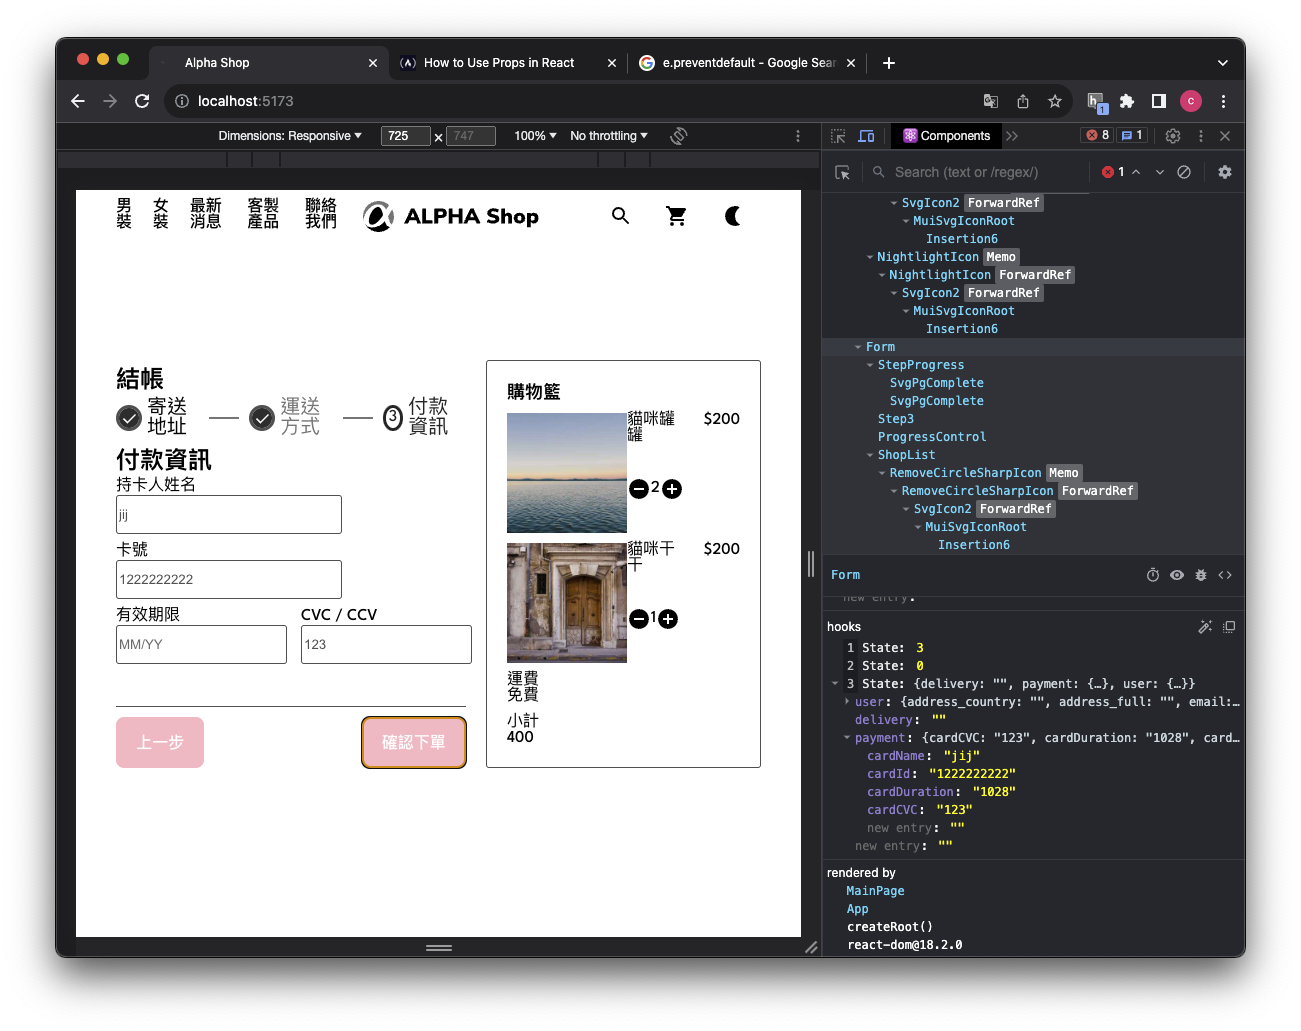
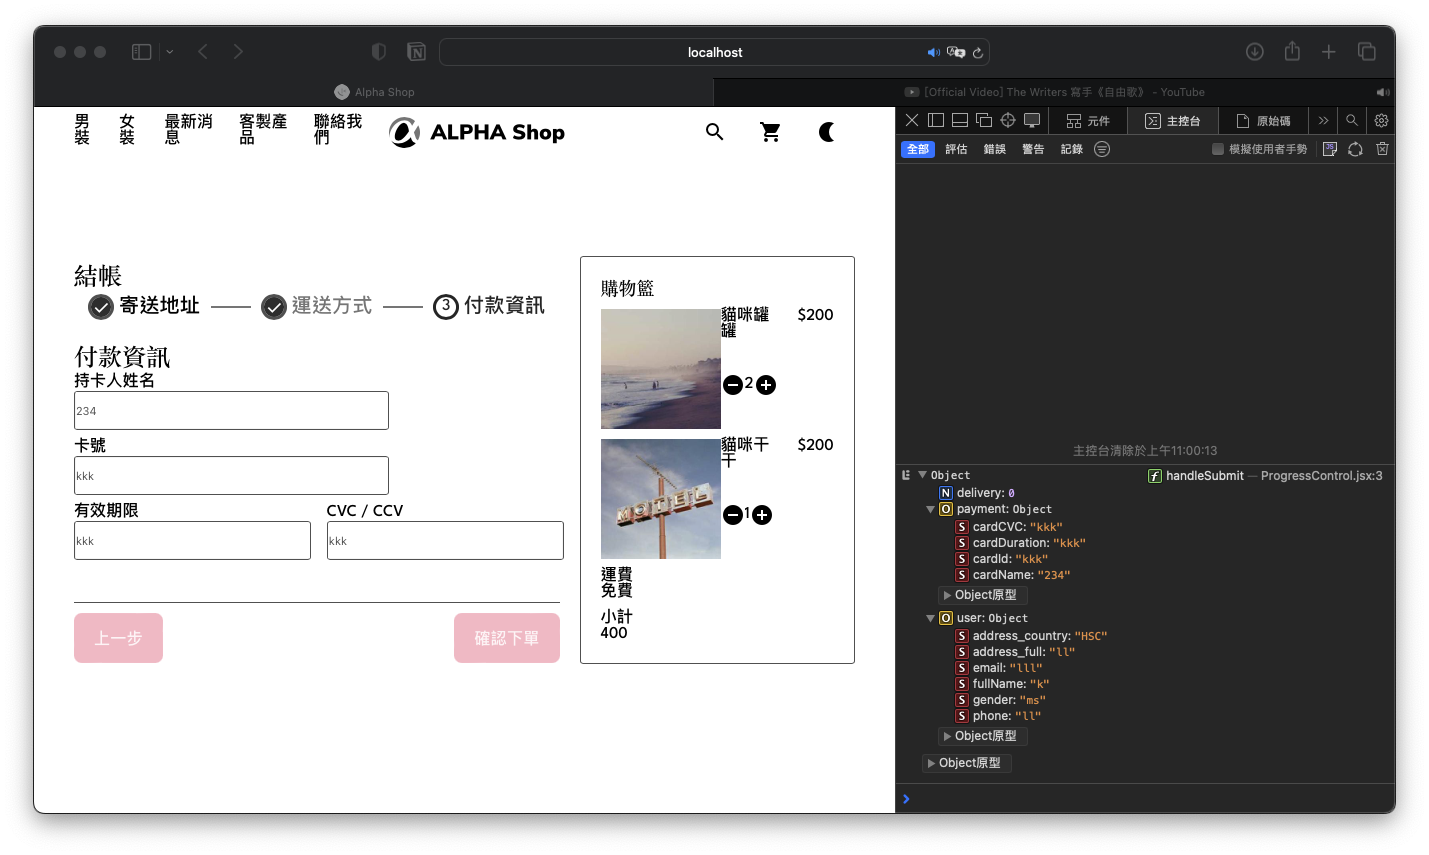
update

Changed region(s): [[0.0, 0.0304, 0.9839, 0.9731]]

diff --git a/src/component/Form/Form.jsx b/src/component/Form/Form.jsx
@@ -5,30 +5,13 @@ import ProgressControl from "./ProgressControl";
 import ShopList from "./ShopList";
 import StepProgress from "./StepProgress";
 
-import { useState } from "react";
+import { useStateContext } from "../Context/StateProvider";
+
 import "../../style/Form.scss";
 
 export default function Form() {
-  const [shopStage, setShopStage] = useState(1);
-
-  const [shipFee, setShipFee] = useState(0);
-  const [userInfo, setUserInfo] = useState({
-    user: {
-      gender: "mr",
-      fullName: "",
-      phone: "",
-      email: "",
-      address_country: "",
-      address_full: "",
-    },
-    delivery: 0,
-    payment: {
-      cardName: "",
-      cardId: "",
-      cardDuration: "",
-      cardCVC: "",
-    },
-  });
+  const { shopStage, setShopStage, setShipFee, userInfo, setUserInfo } =
+    useStateContext();
 
   const renderForm = () => {
     switch (shopStage) {
@@ -59,10 +42,11 @@ export default function Form() {
             <ProgressControl
               shopStage={shopStage}
               setShopStage={setShopStage}
+              userInfo={userInfo}
             />
           </div>
           <div className="form-right">
-            <ShopList shipFee={shipFee} />
+            <ShopList />
           </div>
         </div>
       </section>

diff --git a/src/component/Context/StateProvider.jsx b/src/component/Context/StateProvider.jsx
@@ -1,0 +1,49 @@
+import { useState, createContext, useContext } from "react";
+import jsonData from "../Form/Cart.json";
+
+const StateContext = createContext();
+
+export const StatePovider = ({ children }) => {
+  // Form.jsx
+  const [shopStage, setShopStage] = useState(1);
+  const [shipFee, setShipFee] = useState(0);
+  const [userInfo, setUserInfo] = useState({
+    user: {
+      gender: "mr",
+      fullName: "",
+      phone: "",
+      email: "",
+      address_country: "",
+      address_full: "",
+    },
+    delivery: 0,
+    payment: {
+      cardName: "",
+      cardId: "",
+      cardDuration: "",
+      cardCVC: "",
+    },
+  });
+
+  // ShopList.jsx
+  const [data, setData] = useState(jsonData);
+
+  return (
+    <StateContext.Provider
+      value={{
+        shopStage,
+        setShopStage,
+        shipFee,
+        setShipFee,
+        userInfo,
+        setUserInfo,
+        data,
+        setData,
+      }}
+    >
+      {children}
+    </StateContext.Provider>
+  );
+};
+
+export const useStateContext = () => useContext(StateContext);

diff --git a/src/component/Form/ShopList.jsx b/src/component/Form/ShopList.jsx
@@ -1,13 +1,14 @@
-import jsonData from "./Cart.json";
+import jsonData from "../Form/Cart.json";
 
 import "../../style/ShopList.scss";
 
 import RemoveCircleSharpIcon from "@mui/icons-material/RemoveCircleSharp";
 import AddCircleSharpIcon from "@mui/icons-material/AddCircleSharp";
-import { useState } from "react";
 
-export default function ShopList({ shipFee }) {
-  const [data, setData] = useState(jsonData);
+import { useStateContext } from "../Context/StateProvider";
+
+export default function ShopList() {
+  const { data, setData, shipFee } = useStateContext();
 
   let Value = data.reduce((total, item) => {
     const itemValue = item.price * item.quantity;

diff --git a/src/component/Form/ProgressControl.jsx b/src/component/Form/ProgressControl.jsx
@@ -1,4 +1,7 @@
-export default function ProgressControl({ shopStage, setShopStage }) {
+export default function ProgressControl({ shopStage, setShopStage, userInfo }) {
+  const handleSubmit = () => {
+    console.log(userInfo);
+  };
   return (
     <div
       className="progress-control"
@@ -20,6 +23,10 @@ export default function ProgressControl({ shopStage, setShopStage }) {
           e.preventDefault;
           if (shopStage < 3) {
             setShopStage(shopStage + 1);
+          }
+
+          if (shopStage === 3) {
+            handleSubmit();
           }
         }}
       >

diff --git a/src/component/Form/Step3.jsx b/src/component/Form/Step3.jsx
@@ -1,13 +1,6 @@
 import style from "../../style/Step3.module.scss";
 
 export default function Step3({ userInfo, setUserInfo }) {
-  function handleAddressFullChange(e) {
-    setUserInfo({
-      ...userInfo,
-      payment: { ...userInfo.payment, address_full: e.target.value },
-    });
-  }
-
   function handleCardNameChange(e) {
     setUserInfo({
       ...userInfo,

diff --git a/src/App.jsx b/src/App.jsx
@@ -1,10 +1,13 @@
+import { StatePovider } from "./component/Context/StateProvider";
 import MainPage from "./component/MainPage";
 import "./style/App.scss";
 
 function App() {
   return (
     <>
-      <MainPage></MainPage>
+      <StatePovider>
+        <MainPage />
+      </StatePovider>
     </>
   );
 }

diff --git a/src/component/MainPage.jsx b/src/component/MainPage.jsx
@@ -5,9 +5,9 @@ import Form from "./Form/Form";
 export default function MainPage() {
   return (
     <>
-      <Header></Header>
+      <Header />
       <Form />
-      <Footer></Footer>
+      <Footer />
     </>
   );
 }

diff --git a/README.md b/README.md
@@ -1,17 +1,19 @@
-# Alpha Camp Dev-C4-M5 - Alpha Shop III
+# Alpha Camp Dev-C4-M5 - Alpha Shop IIII
 
-_This is frist submit of part III_
+_This is frist submit of part IIII_
 
 ### The challenge
 
 Users should be able to:
 
 - RWD View in Website
+- Show Shopping Cart in the view
+- Submit UserInfo after clicked
 
-## NEW!!
+## Update
 
-- Add or delete items in the cart
-- Save User input in the form
+- remove useState in component and use `StateProvider.jsx` to manage state.
+- console.log `userInfo` after clicking submit.
 
 ### Screenshot
 
@@ -19,7 +21,7 @@ Users should be able to:
 
 ### Links
 
-- Solution URL（branch：III-first-submit）: [https://github.com/Chious/M4-AlphaShop-I](https://github.com/Chious/M4-AlphaShop-I)
+- Solution URL（branch：IIII-first-submit）: [https://github.com/Chious/M4-AlphaShop-I](https://github.com/Chious/M4-AlphaShop-I)
 - Live Site URL: [Live Page](https://your-live-site-url.com)
 
 #### How to fork the repo on local ?
@@ -31,44 +33,50 @@ Users should be able to:
 - open document and type `npm i ` on terminal
 - type `npm run dev` in terminal
 
-## Update
+## My Process
 
-1. `StepProgress`、`StepProgressControl`、`ShopList`、`Step`：Add useState individulally, and save the state in the `Form`
-
-- data: content of the cart
-- shipFee: payment of ship fee
-- userInfo: content of the submit form
-
-## 已知 Bug
-
-1. `Step2`
-
-- 不知道為什麼 Delivery 沒辦法更新 State 的值
-- Button UI 無法正確顯示，不知道為什麼
-
-2. 關於 `handleUserInfoChange`目前是一個一個 function 寫，我有考慮過改寫成這樣，不過沒有成功。
-
-```js
-function handleUserChange(e, UserInfoTarget){
-    e.preventDefault();
-
-    setUserInfo({
-        ...userInfo, user{...userInfo.user,UserInfoTarget: e.target.value}
-    })
-}
-
-
-// <input>
-
-onClick={setUserInfo(e, "userName")}
+1. Create `StateContext`
 
 ```
+StateContext = createContext();
+```
 
-3. VS Code 的顯示 Bug，當使用 React props 的命名時會跳出紅字
+2. `StateProvider` would return ContextProvider
 
-![](./screenshot2.png)
+```
+    <StateContext.Provider value={{ state, setState,... }}>
+      {children}
+    </StateContext.Provider>
+```
 
-4. 第一次被版本控制搞到了，新增分支的時候慎選！
+3. create `useStateContext`, so component could access to value of useContext
+
+```
+export const useStateContext = () => useContext(StateContext);
+```
+
+4. remove unnecessary useState.
+
+## 已知 Bugs
+
+1. `Step2`：`input[type=radius]`的 UI 顯示錯誤，已經卡了一個月了。
+
+2. Form submit rule should be added to check if valid of form.
+
+3. Try to send `userInfo` to backend in the future.
+
+4. Why `Step2` show error while `userInfo` and `setUserInfo` is define and work in React ?
+   ![](./screenshot2.png)
+
+5. How to aviod VS code warning message while
+
+```
+function({props})
+```
+
+is valid in React ?
+
+![](./screenshot3.png)
 
 ## Future Develop
 
@@ -94,4 +102,6 @@ onClick={setUserInfo(e, "userName")}
 
 - Github - [邱佳昇](https://github.com/Chious)
 
-## Acknowledgments None
+## Acknowledgments
+
+None
